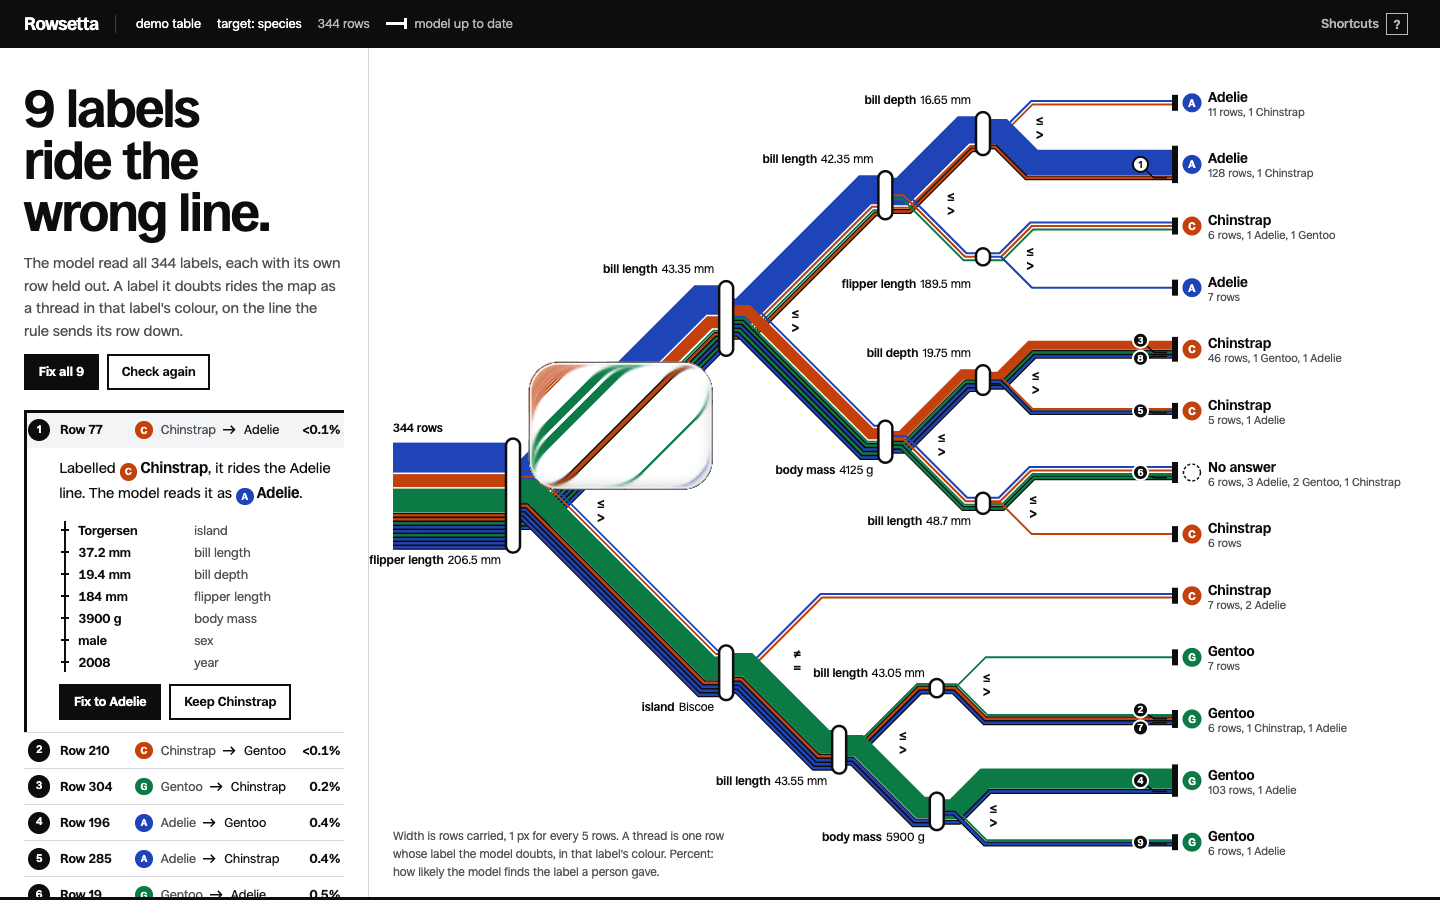
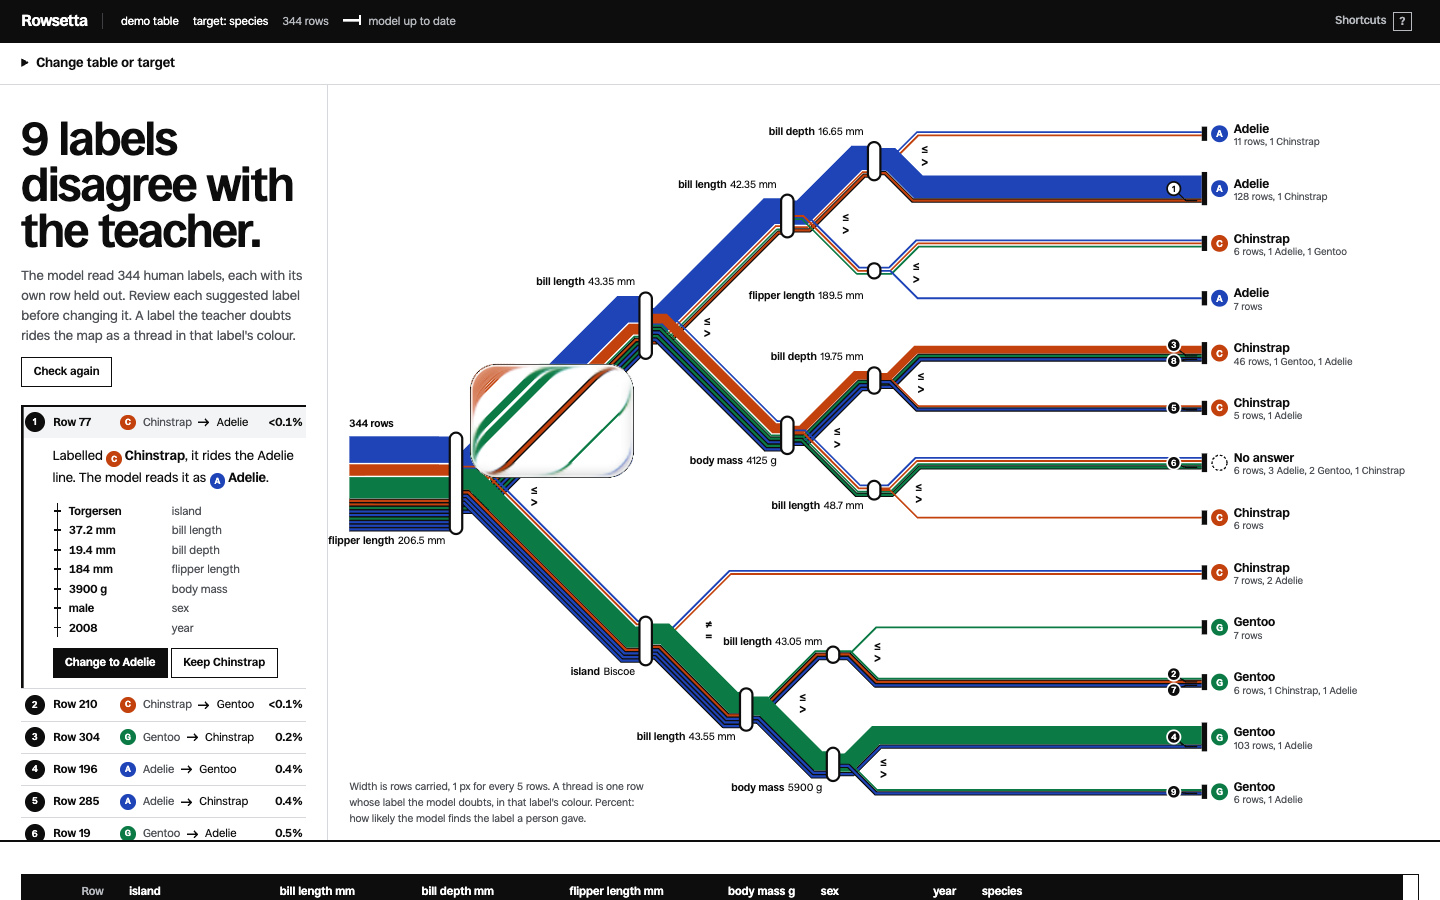
Regenerate the launch images from the current audit view

Changed region(s): [[0.0, 0.0, 1.0, 1.0], [0.5312, 0.56, 0.5625, 0.5911]]

diff --git a/docs/review/launch-images.md b/docs/review/launch-images.md
@@ -1,0 +1,20 @@
+# Launch stills
+
+Regenerate the two stills after building the local application:
+
+```sh
+pnpm --dir frontend build
+node scripts/capture_launch.mjs
+```
+
+The existing `scripts/record_demo.mjs` records the GIF; it has no still-image
+output. The still capture uses the same pinned local TabICLv2 teacher and
+`scripts/mislabel_demo.py` fixture in a temporary session. It opens the current
+audit view with one disagreement selected, without changing any labels.
+
+The direction remains `DESIGN.md`: transit bands, class roundels and the glass
+lens. Both PNGs were read and visually inspected after capture. They show
+“9 labels disagree with the teacher” and individual review; neither contains
+“wrong line” or “Fix all 9”. Their original sizes are preserved: `hero.png` is
+1440 × 900 and `social-preview.png` is 1280 × 640. Capture zoom frames the current
+app without changing its copy, data or styles.
